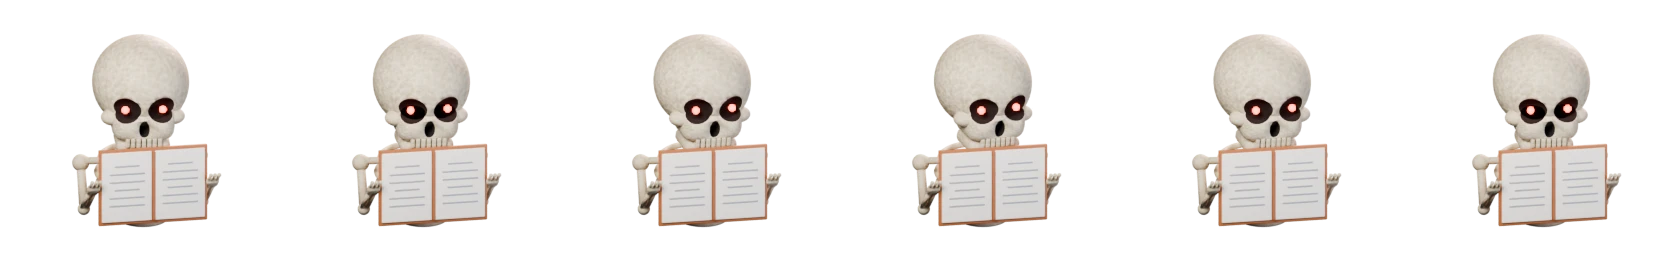
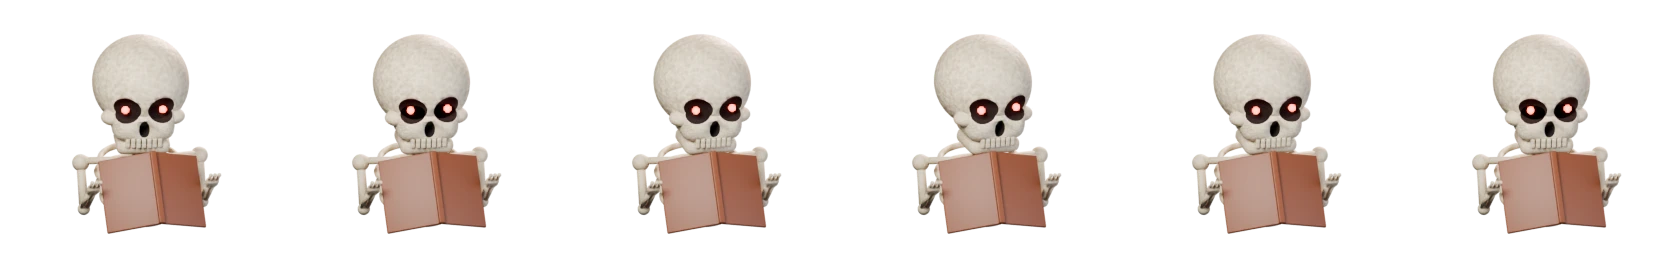
test: the 3D skeleton reads with the pages toward it
The book faced the viewer; a reader holds it with the pages toward the face,
spine out, halves folded back to the hands and the top tipped back. Darker
leather cover.

diff --git a/art/skeleton3d/build.py b/art/skeleton3d/build.py
@@ -205,18 +205,23 @@ def main():
 
     # ---------- props: an open book (reading) and a hand bell (done) ----------
     PAGE, _ = principled("Page", (0.93, 0.91, 0.85), 0.8)
-    COVER, _ = principled("Cover", (0.42, 0.14, 0.05), 0.55)
+    COVER, _ = principled("Cover", (0.20, 0.06, 0.025), 0.5)
     INK, _ = principled("Ink", (0.35, 0.37, 0.42), 0.8)
     BRASS, brb = principled("Brass", (0.85, 0.62, 0.18), 0.3)
     brb.inputs["Metallic"].default_value = 1.0
     WOOD, _ = principled("Wood", (0.35, 0.18, 0.07), 0.6)
-    book = empty("book", (0, -0.47, 0.66))
-    rbox("cover", (0, -0.46, 0.66), (0.52, 0.014, 0.36), COVER, book, bevel=0.01)
+    # The book is held the way a reader holds it: pages toward the skull, spine toward the viewer,
+    # each half folded back from the spine toward a hand, and the top tipped back toward the face.
+    book = empty("book", (0, -0.6, 0.66))
+    rbox("spine", (0, -0.635, 0.66), (0.03, 0.02, 0.35), COVER, book, bevel=0.012)
     for s in (-1, 1):
-        rbox(f"page{s}", (0.255 * s, -0.48, 0.66), (0.24, 0.01, 0.33), PAGE, book, bevel=0.008)
+        half = empty(f"half{s}", (0, -0.62, 0.66), book)
+        rbox(f"cover{s}", (0.26 * s, -0.62, 0.66), (0.26, 0.012, 0.35), COVER, half, bevel=0.01)
+        rbox(f"page{s}", (0.25 * s, -0.596, 0.66), (0.24, 0.012, 0.33), PAGE, half, bevel=0.008)
         for k in range(6):
-            rbox(f"line{s}{k}", (0.255 * s, -0.492, 0.86 - 0.075 * k), (0.17 if k % 3 else 0.12, 0.002, 0.008), INK, book, bevel=0.002)
-    rbox("spine", (0, -0.49, 0.66), (0.012, 0.012, 0.33), COVER, book, bevel=0.004)
+            rbox(f"line{s}{k}", (0.25 * s, -0.583, 0.86 - 0.075 * k), (0.17 if k % 3 else 0.12, 0.002, 0.008), INK, half, bevel=0.002)
+        half.rotation_euler = (0, 0, math.radians(25 * s))
+    book.rotation_euler = (math.radians(-30), 0, 0)
     # The bell hangs from the right hand. Its pivot turns against the arm so it always hangs down.
     bell = empty("bell", (0.57, 0, -0.17), el_r)
     limb("bellhandle", (0.57, 0, -0.17), (0.57, 0, -0.30), 0.026, WOOD, bell, knobs=0)
